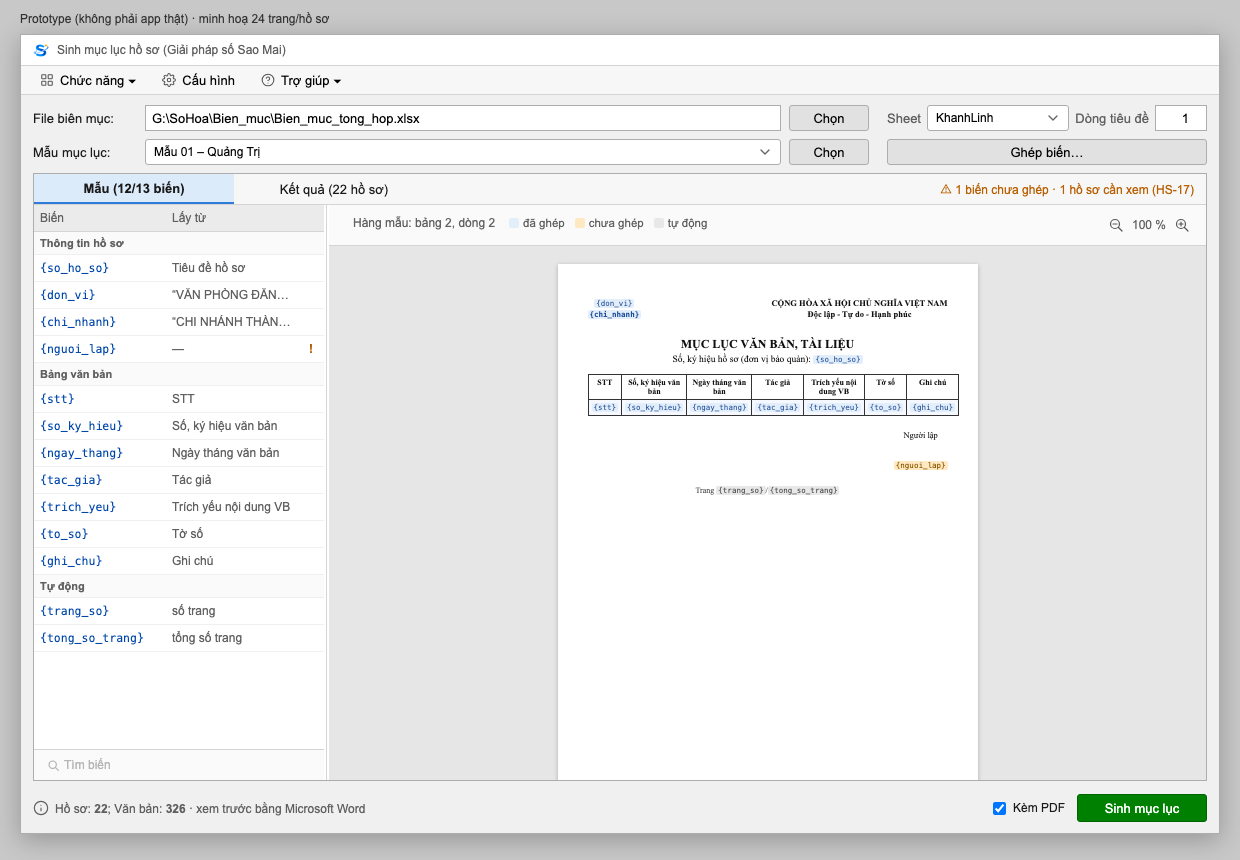
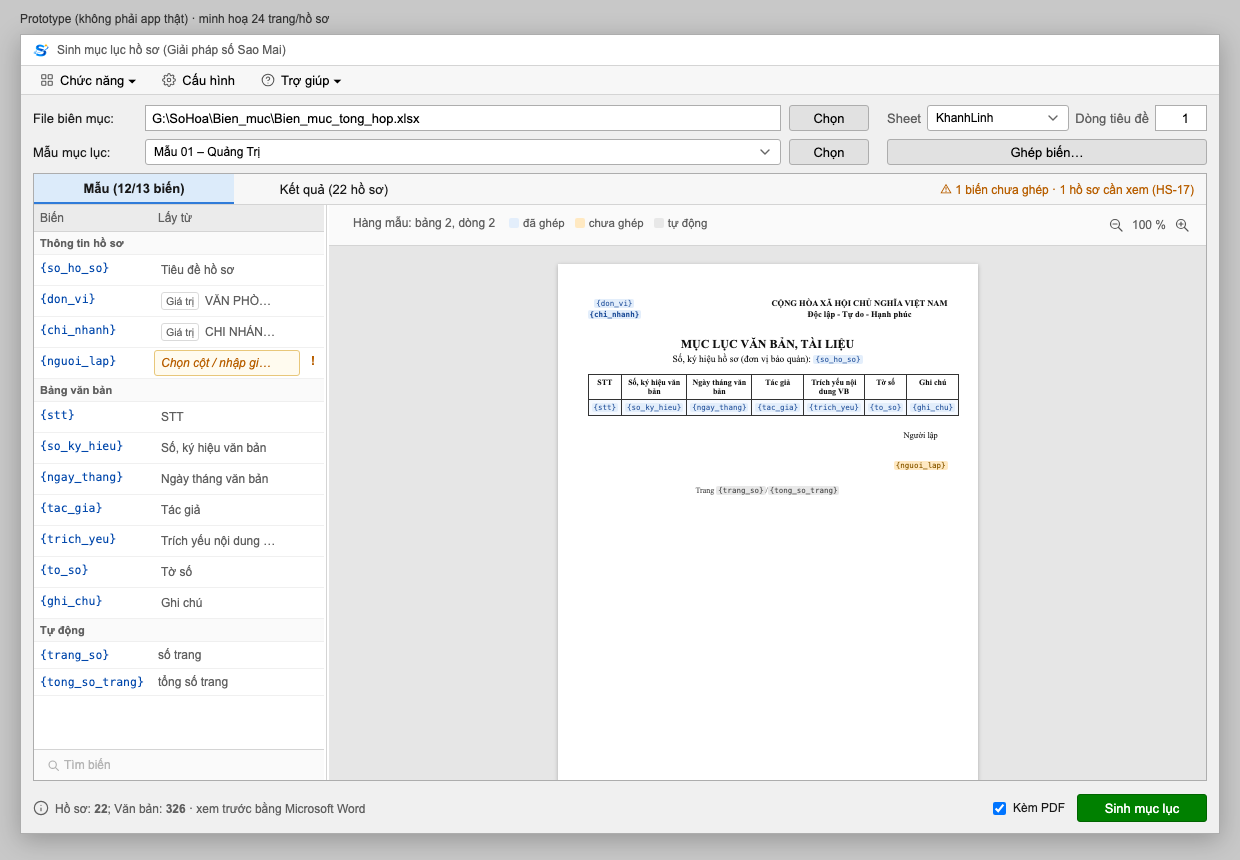
docs(prototype): edit variable source inline in template sidebar

Changed region(s): [[0.0306, 0.3326, 0.1839, 0.8163], [0.1226, 0.3023, 0.2452, 0.6651], [0.1226, 0.2419, 0.1532, 0.2721]]

diff --git a/plans/261027-1736-tach-van-ban-tu-dong/prototype-tach-van-ban.html b/plans/261027-1736-tach-van-ban-tu-dong/prototype-tach-van-ban.html
@@ -500,8 +500,13 @@
   #manMucLuc .canhtab:hover { text-decoration:underline; }
   #manMucLuc .tabkho > span { cursor:pointer; height:100%; display:flex; align-items:center; justify-content:center; box-sizing:border-box; }
   #manMucLuc .tabkho > span:not(.chon):hover { background:#EFEFEF; }
-  .bangbien { display:grid; grid-template-columns:minmax(90px,1fr) minmax(70px,1fr) 26px; font-size:12px; }
+  .bangbien { display:grid; grid-template-columns:118px minmax(0,1fr) 22px; font-size:12px; }
   .bangbien .tieude-cot { position:sticky; top:0; background:#EBEBEB; border-bottom:1px solid var(--vien-nhat); padding:6px 6px; color:var(--chu-phu); z-index:1; }
+  .bangbien .vbdong > span.lay { padding:2px 2px; overflow:visible; cursor:default; }
+  .bangbien .oml { height:26px; padding:0 6px; font-weight:normal; } .bangbien .tag.cot { display:none; }
+  .bangbien .oml .ten { color:var(--chu-phu); } .bangbien .oml.thieu .ten { color:#B85F00; }
+  .bangbien .vbdong.chon > span { background:var(--chon-nen); }
+  .bangbien .dsml { position:static; grid-column:1 / -1; margin:2px 6px 8px; max-height:260px; }
   .bangbien .vbdong > span { padding:6px; border-bottom:1px solid #F0F0F0; white-space:nowrap; overflow:hidden; text-overflow:ellipsis; cursor:pointer; }
   .bangbien .nhombien { grid-column:1 / -1; padding:5px 6px; background:#FAFAFA; color:var(--chu-phu); font-size:11px; font-weight:bold; border-bottom:1px solid #EFEFEF; }
   .bangbien code, .ghep-ml code { font-family:Consolas, Menlo, monospace; font-size:11.5px; color:var(--cobalt); }
@@ -2500,7 +2505,7 @@
   if (location.hash === '#phong-to') { s.daPT = true; ve(); moPhongTo(thuTuView(), '0.10'); }
   if (location.hash === '#tip') { s.daPT = true; ve(); document.querySelectorAll('.tip')[1].classList.add('hien'); document.querySelector('.tip.tren').classList.add('hien'); }
   // ---- Màn Sinh mục lục hồ sơ (dữ liệu giả theo Mẫu 01 – Quảng Trị) ----
-  var ml = { coDuLieu: false, hs: 0, tab: 'mau', chay: 0, mo: -1 };
+  var ml = { coDuLieu: false, hs: 0, tab: 'mau', chay: 0, mo: -1, moTrai: -1 };
   var ML_HS = []; for (var k = 0; k < 22; k++) ML_HS.push(['HS-' + ('0' + (k + 1)).slice(-2), [14, 65, 9, 21, 12, 18, 7, 30, 11, 16, 8, 19, 13, 10, 22, 6, 15, 9, 12, 8, 14, 7][k]]);
   ML_HS[16].push('dòng 241 trống cột Trích yếu nội dung VB — ô để trống trong mục lục');
   var ML_VB = [['01/QĐ-UBND', '05/01/2015', 'UBND xã', 'Quyết định thành lập tổ công tác', 'Bản gốc'], ['15/TTr-UBND', '12/02/2015', 'UBND xã', 'Tờ trình phê duyệt kế hoạch', 'Bản sao'],
@@ -2526,7 +2531,7 @@
   function bien(ten) { for (var i = 0; i < ML_BIEN.length; i++) if (ML_BIEN[i][0] === ten) return ML_BIEN[i]; }
   function tk(ten) {
     var b = bien(ten), lop = !b ? 'tudong' : b[1] === 'thieu' ? 'thieu' : '';
-    return '<span class="tk ' + lop + '" data-mlghep="1">{' + ten + '}</span>';
+    return '<span class="tk ' + lop + '"' + (b ? ' data-mlbien="' + ML_BIEN.indexOf(b) + '"' : '') + ' title="Bấm để sửa nguồn">{' + ten + '}</span>';
   }
   var MUI_TEN = '<svg viewBox="0 0 10 6" aria-hidden="true"><path d="M1 1l4 4 4-4" fill="none" stroke="#666" stroke-width="1.4" stroke-linecap="round"/></svg>';
   function giaTri(b, hs) {
@@ -2536,19 +2541,41 @@
     var i = COT.indexOf(b[2]);
     return i === 0 ? hs : i === 1 ? '1' : i === 6 ? '01' : i === 7 ? ML_VB[0][4] : ML_VB[0][i - 2] || '';
   }
-  // Ô "Lấy từ": hiển thị gọn; bấm để mở danh sách cột, hoặc gõ thẳng giá trị cố định rồi Enter
-  function chonNguon(b, i) {
-    var nhan = b[1] === 'cot' ? '<span class="tag">Cột</span><span class="ten">' + b[2] + '</span>'
+  // Ô "Lấy từ": hiển thị gọn; bấm để mở danh sách cột, hoặc gõ thẳng giá trị cố định rồi Enter.
+  // Dùng chung cho bảng biến ở sidebar (ml.moTrai) và hộp Ghép biến (ml.mo).
+  function oNguon(b, i, mo) {
+    var nhan = b[1] === 'cot' ? '<span class="tag cot">Cột</span><span class="ten">' + b[2] + '</span>'
       : b[1] === 'hang' ? '<span class="tag">Giá trị</span><span class="ten">' + b[2] + '</span>'
       : b[1] === 'tach' ? '<span class="tag">Tách</span><span class="ten">Từ kết quả Tách</span>'
-      : '<span class="ten">Bấm để chọn cột hoặc nhập giá trị</span>';
-    var o = '<div class="oml' + (b[1] === 'thieu' ? ' thieu' : '') + (ml.mo === i ? ' mo' : '') + '" data-mloml="' + i + '" tabindex="0" role="combobox" aria-expanded="' + (ml.mo === i) + '">' + nhan + MUI_TEN + '</div>';
-    if (ml.mo !== i) return o;
-    return o + '<div class="dsml"><input id="mlGo" placeholder="Gõ giá trị cố định rồi Enter, hoặc chọn bên dưới…" value="' + (b[1] === 'hang' ? b[2] : '') + '">' +
+      : '<span class="ten">Chọn cột / nhập giá trị</span>';
+    return '<div class="oml' + (b[1] === 'thieu' ? ' thieu' : '') + (mo === i ? ' mo' : '') + '" data-mloml="' + i + '" tabindex="0" role="combobox" aria-expanded="' + (mo === i) + '">' + nhan + MUI_TEN + '</div>';
+  }
+  function dsNguon(b) {
+    return '<input class="mlgo" placeholder="Gõ giá trị cố định rồi Enter, hoặc chọn…" value="' + (b[1] === 'hang' ? b[2] : '') + '">' +
       '<div class="goi">Cột trong file biên mục</div>' +
       COT.map(function (c) { return '<div class="mucml' + (b[1] === 'cot' && b[2] === c ? ' chon' : '') + '" data-mlchon="cot" data-gt="' + c + '">' + c + '</div>'; }).join('') +
       '<div class="goi">Khác</div><div class="mucml" data-mlchon="tach">Từ kết quả Tách (khớp theo thứ tự)</div>' +
-      (b[1] !== 'thieu' ? '<div class="mucml bo" data-mlchon="thieu">Bỏ ghép</div>' : '') + '</div>';
+      (b[1] !== 'thieu' ? '<div class="mucml bo" data-mlchon="thieu">Bỏ ghép</div>' : '');
+  }
+  function chonNguon(b, i) { return oNguon(b, i, ml.mo) + (ml.mo === i ? '<div class="dsml">' + dsNguon(b) + '</div>' : ''); }
+  // Gắn chọn/nhập nguồn cho một vùng: khoa = 'mo' (hộp Ghép biến) | 'moTrai' (sidebar)
+  function ganNguon(vung, khoa) {
+    var ve = function () { veMucLuc(); if ($('phuMLGhep').classList.contains('mo')) veGhep(); var g = vung.querySelector('.mlgo'); if (g) g.focus(); };
+    var dat = function (k, gt) { var b = ML_BIEN[ml[khoa]]; b[1] = k; b[2] = gt; ml[khoa] = -1; ve(); };
+    vung.addEventListener('click', function (e) {
+      var c = e.target.closest('[data-mlchon]'), o = e.target.closest('[data-mloml]');
+      if (c) { e.stopPropagation(); dat(c.getAttribute('data-mlchon'), c.getAttribute('data-gt') || ''); return; }
+      if (o) { e.stopPropagation(); var i = +o.getAttribute('data-mloml'); ml[khoa] = ml[khoa] === i ? -1 : i; ve(); }
+    });
+    vung.addEventListener('keydown', function (e) {
+      if (!e.target.classList.contains('mlgo')) return;
+      if (e.key === 'Escape') { ml[khoa] = -1; ve(); }
+      if (e.key === 'Enter' && e.target.value.trim()) dat('hang', e.target.value.trim());
+    });
+    vung.addEventListener('input', function (e) {
+      if (!e.target.classList.contains('mlgo')) return; var q = e.target.value.toLowerCase();
+      e.target.parentNode.querySelectorAll('[data-mlchon="cot"]').forEach(function (d) { d.style.display = d.textContent.toLowerCase().indexOf(q) < 0 ? 'none' : ''; });
+    });
   }
   function veGhep() {
     var hs = ML_HS[ml.hs][0];
@@ -2600,8 +2627,10 @@
       $('mlTrai').innerHTML = '<div class="bangbien" role="grid"><span class="tieude-cot">Biến</span><span class="tieude-cot">Lấy từ</span><span class="tieude-cot"></span>' +
         ML_BIEN.map(function (b) {
           if (b.length === 1) return '<span class="nhombien">' + b[0].replace(/ \(.*/, '') + '</span>';
-          return '<div class="vbdong" data-mlghep="1" role="row"><span><code>{' + b[0] + '}</code></span><span style="color:var(--chu-phu)">' + (b[1] === 'cot' ? b[2] : b[1] === 'hang' ? '“' + b[2] + '”' : b[1] === 'tach' ? 'Từ Tách' : '—') + '</span>' +
-            (b[1] === 'thieu' ? '<span class="canhml" title="Chưa ghép">!</span>' : '<span></span>') + '</div>';
+          var i = ML_BIEN.indexOf(b);
+          return '<div class="vbdong' + (ml.moTrai === i ? ' chon' : '') + '" role="row"><span><code>{' + b[0] + '}</code></span><span class="lay">' + oNguon(b, i, ml.moTrai) + '</span>' +
+            (b[1] === 'thieu' ? '<span class="canhml" title="Chưa ghép">!</span>' : '<span></span>') + '</div>' +
+            (ml.moTrai === i ? '<div class="dsml">' + dsNguon(b) + '</div>' : '');
         }).join('') + '<span class="nhombien">Tự động</span><div class="vbdong"><span><code>{trang_so}</code></span><span style="color:var(--chu-phu)">số trang</span><span></span></div>' +
         '<div class="vbdong"><span><code>{tong_so_trang}</code></span><span style="color:var(--chu-phu)">tổng số trang</span><span></span></div></div>';
       $('mlXemTT').innerHTML = 'Hàng mẫu: bảng 2, dòng 2<span class="chuthich"><span><i style="background:#E3EEFB"></i>đã ghép</span><span><i style="background:#FFE9C2"></i>chưa ghép</span><span><i style="background:#E8E8E8"></i>tự động</span></span>';
@@ -2618,7 +2647,7 @@
     if (e.target.closest('#mlCanh')) { ml.tab = 'ketqua'; ml.hs = 16; veMucLuc(); return; }
     var t = e.target.closest('[data-mltab]'); if (t && ml.coDuLieu) { ml.tab = t.getAttribute('data-mltab'); veMucLuc(); return; }
     var r = e.target.closest('[data-mlhs]'); if (r) { ml.hs = +r.getAttribute('data-mlhs'); veMucLuc(); return; }
-    if (e.target.closest('[data-mlghep]')) moGhep();
+    var tkb = e.target.closest('[data-mlbien]'); if (tkb) { ml.moTrai = +tkb.getAttribute('data-mlbien'); veMucLuc(); var g = $('mlTrai').querySelector('.mlgo'); if (g) g.focus(); }
   });
   $('mlChonDuLieu').onclick = $('mlLkChon').onclick = function () { ml.coDuLieu = true; veMucLuc(); };
   $('mlTruoc').onclick = function () { ml.hs = Math.max(0, ml.hs - 1); veMucLuc(); };
@@ -2628,24 +2657,12 @@
   document.querySelectorAll('[data-dong^="phuML"]').forEach(function (b) { b.onclick = function () { $(b.getAttribute('data-dong')).classList.remove('mo'); }; });
   var h = location.hash;
   if (h.indexOf('#muc-luc') === 0 || h === '#cau-hinh-muc-luc') {
-    s.man = 'mucluc'; ml.coDuLieu = h !== '#muc-luc'; ml.tab = h === '#muc-luc-mau' || h === '#muc-luc-ghep' ? 'mau' : 'ketqua';
+    s.man = 'mucluc'; ml.coDuLieu = h !== '#muc-luc'; ml.tab = h === '#muc-luc-mau' || h === '#muc-luc-mau-sua' || h === '#muc-luc-ghep' ? 'mau' : 'ketqua';
     ml.hs = h === '#muc-luc-loi' ? 16 : 0; ml.chay = h === '#muc-luc-tao' ? 1 : h === '#muc-luc-xong' ? 2 : 0; ve();
   }
   if (h === '#muc-luc-ghep' || h === '#muc-luc-ghep-chon') { if (h === '#muc-luc-ghep-chon') ml.mo = 4; moGhep(); }
-  $('mlBien').addEventListener('click', function (e) {
-    var c = e.target.closest('[data-mlchon]'), o = e.target.closest('[data-mloml]');
-    if (c) { var b = ML_BIEN[ml.mo], k = c.getAttribute('data-mlchon'); b[1] = k; b[2] = k === 'cot' ? c.getAttribute('data-gt') : ''; ml.mo = -1; veGhep(); return; }
-    if (o) { var i = +o.getAttribute('data-mloml'); ml.mo = ml.mo === i ? -1 : i; veGhep(); if ($('mlGo')) $('mlGo').focus(); }
-  });
-  $('mlBien').addEventListener('keydown', function (e) {
-    if (e.target.id !== 'mlGo') return;
-    if (e.key === 'Escape') { ml.mo = -1; veGhep(); }
-    if (e.key === 'Enter' && e.target.value.trim()) { var b = ML_BIEN[ml.mo]; b[1] = 'hang'; b[2] = e.target.value.trim(); ml.mo = -1; veGhep(); }
-  });
-  $('mlBien').addEventListener('input', function (e) {
-    if (e.target.id !== 'mlGo') return; var q = e.target.value.toLowerCase();
-    e.target.parentNode.querySelectorAll('[data-mlchon="cot"]').forEach(function (d) { d.style.display = d.textContent.toLowerCase().indexOf(q) < 0 ? 'none' : ''; });
-  });
+  if (h === '#muc-luc-mau-sua') { ml.moTrai = 4; veMucLuc(); }
+  ganNguon($('mlBien'), 'mo'); ganNguon($('mlTrai'), 'moTrai');
   if (h === '#muc-luc-xong') $('phuMLXong').classList.add('mo');
   if (h === '#cau-hinh-muc-luc') $('nutCauHinh').onclick();
 })();
